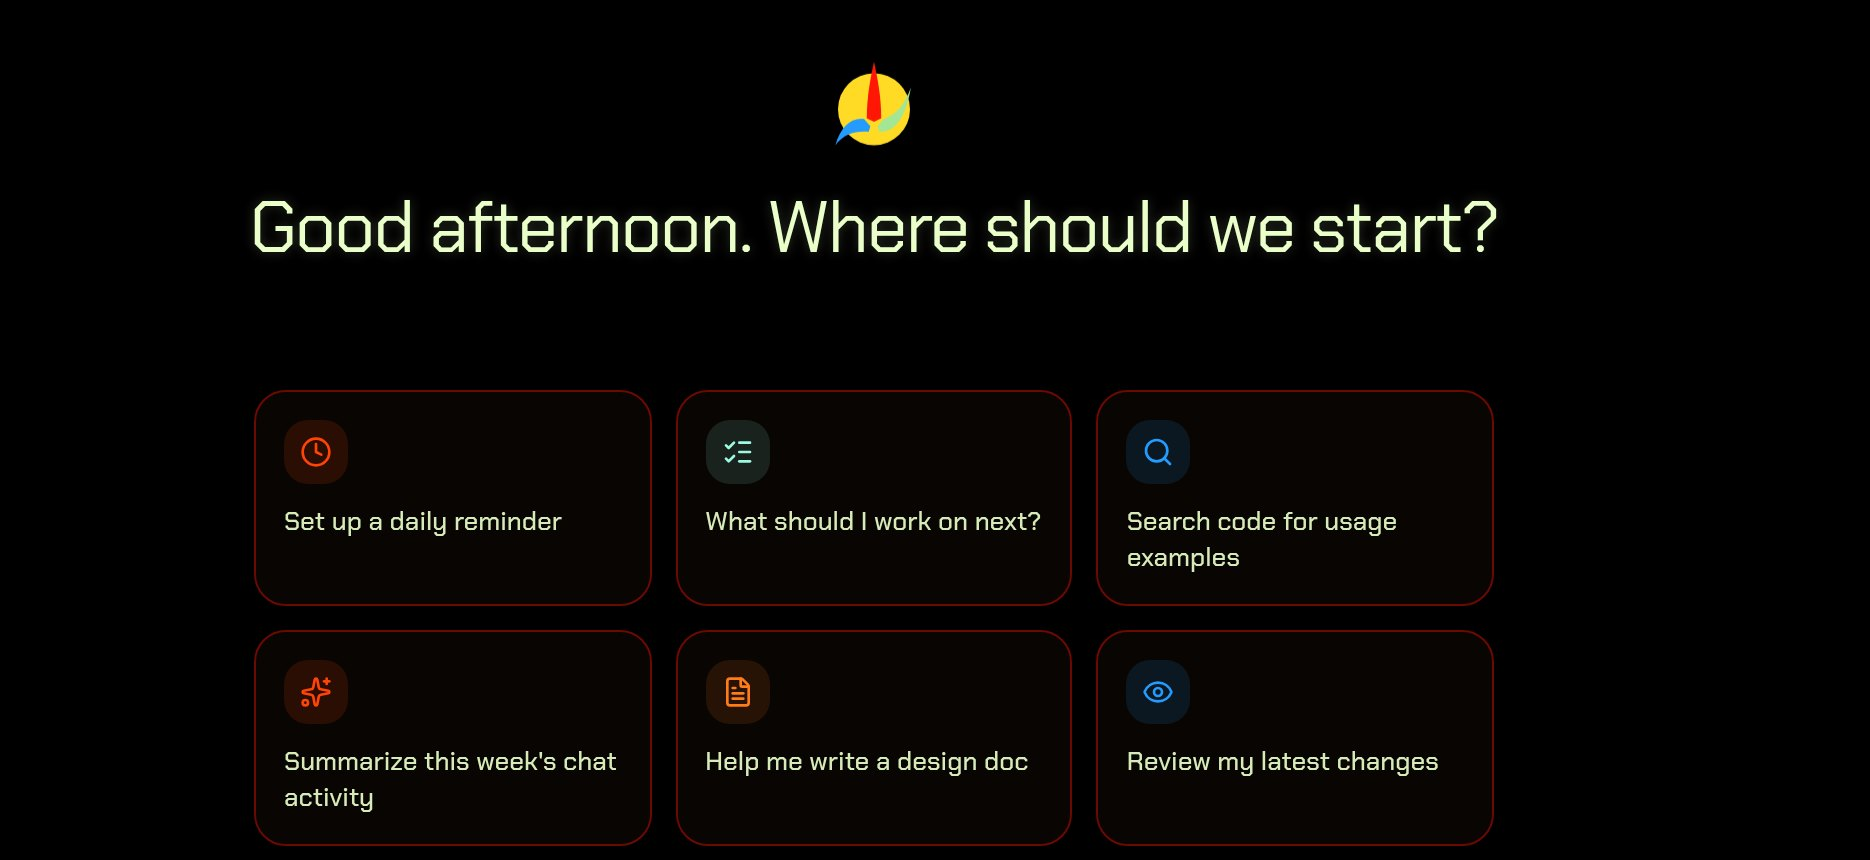
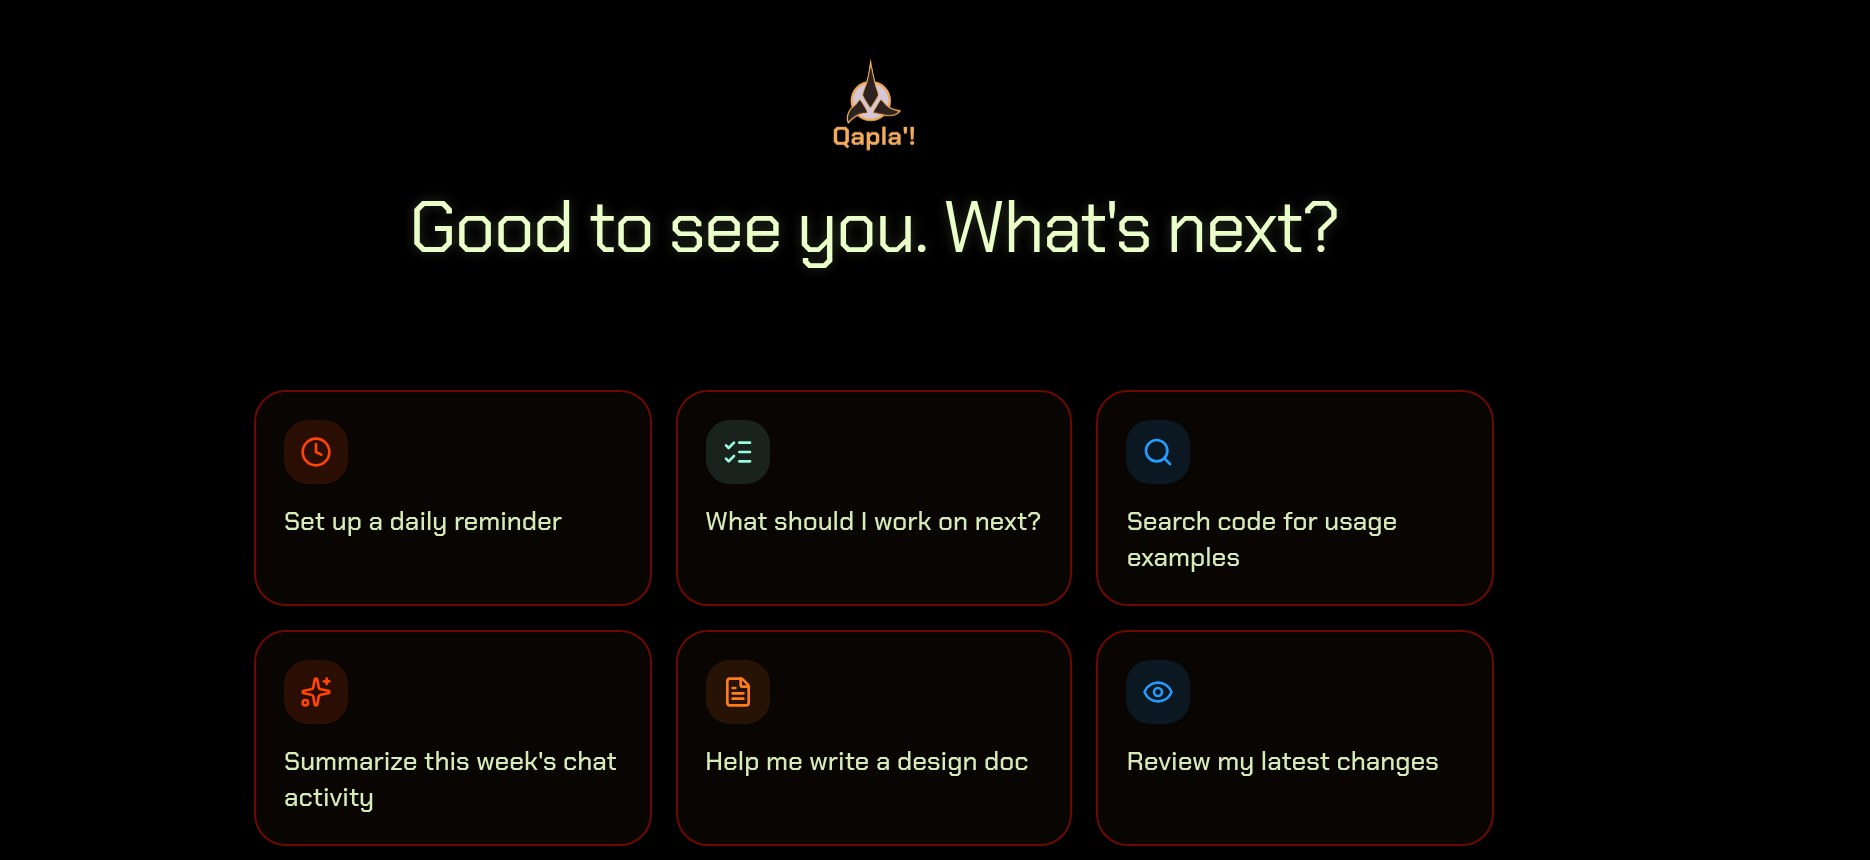
Trace the Klingon emblem from the film; add Qapla'!
Exported from the source repo at 473d2a7; synthesized sounds only (audio
check passed).

Changed region(s): [[0.1241, 0.2116, 0.8064, 0.3023], [0.4342, 0.0605, 0.4963, 0.1814]]

diff --git a/overlays/standby.html b/overlays/standby.html
@@ -34,8 +34,8 @@
  */
 (() => {
   'use strict'
[1 lines of base64/hex data omitted]
-  const C = {"housing":"#331905","rim":"#5c2c08","lattice":"#ff1605","lattice_line":"#9e0d03","ship":"#ff4405","glyph":"#d7ebb9","contact":"#9bfae2","torpedo":"#ff3526","script":"#ff6830","bridge":"#249cff","lamp":"#ff5429","disc":"#ffdb26","armgreen":"#a3e695","dim":"#520702","muted":"#a4b28d","glyphs":[[[[0.198,0.009],[0.399,1.0],[0.465,-0.009]],[[0.005,0.18],[0.72,0.043],[-0.005,-0.02]],[[0.36,0.716],[0.76,0.675],[0.387,0.526]],[[0.349,0.823],[0.76,0.818],[0.41,0.601]]],[[[0.221,0.062],[0.035,0.984],[0.211,0.938],[0.397,0.016]],[[0.72,-0.005],[0.0,0.082],[0.72,0.165]],[[0.117,0.555],[-0.04,0.935],[0.271,0.665]]],[[[0.414,0.05],[0.123,0.973],[0.315,0.95],[0.607,0.027]],[[0.711,0.818],[0.0,0.984],[0.729,1.022]],[[0.233,0.841],[0.76,1.0],[0.345,0.638]]],[[[0.267,0.075],[0.223,0.995],[0.42,0.925],[0.464,0.005]],[[0.297,0.401],[0.76,0.634],[0.406,0.256]],[[0.291,0.323],[-0.04,0.636],[0.403,0.53]]],[[[0.196,-0.002],[0.313,1.0],[0.458,0.002]],[[0.385,0.66],[0.76,0.188],[0.253,0.514]]],[[[0.282,0.049],[0.011,0.973],[0.221,0.951],[0.491,0.027]],[[0.284,0.712],[0.719,0.243],[0.148,0.529]]],[[[0.381,-0.048],[0.232,1.0],[0.696,0.048]],[[0.44,0.588],[0.76,0.171],[0.317,0.455]]],[[[0.406,-0.058],[0.174,1.0],[0.71,0.058]],[[0.705,-0.01],[0.0,0.2],[0.735,0.17]],[[0.482,0.265],[-0.04,0.01],[0.372,0.419]]],[[[0.351,0.069],[0.255,0.99],[0.457,0.931],[0.553,0.01]],[[0.722,0.837],[0.0,0.902],[0.718,1.003]],[[0.469,0.54],[0.76,0.191],[0.347,0.382]]],[[[0.182,0.005],[0.35,1.0],[0.445,-0.005]],[[0.406,0.602],[-0.04,0.415],[0.271,0.786]]],[[[0.246,0.063],[0.092,0.984],[0.298,0.937],[0.451,0.016]],[[-0.017,0.184],[0.72,0.195],[0.017,-0.024]],[[0.3,0.414],[-0.04,0.43],[0.236,0.63]],[[0.22,0.402],[-0.04,0.657],[0.321,0.61]]],[[[0.241,-0.03],[0.184,1.0],[0.533,0.03]],[[0.288,0.637],[-0.04,0.58],[0.191,0.819]],[[0.23,0.361],[-0.04,0.743],[0.367,0.513]]],[[[0.43,0.062],[0.273,0.983],[0.48,0.938],[0.637,0.017]],[[-0.004,1.007],[0.72,0.952],[0.004,0.833]],[[0.445,0.544],[-0.04,0.573],[0.416,0.739]]],[[[0.519,-0.052],[0.248,1.0],[0.778,0.052]],[[0.382,0.79],[0.76,0.658],[0.368,0.578]],[[0.331,0.688],[0.76,0.904],[0.487,0.509]]],[[[0.508,-0.06],[0.115,1.0],[0.743,0.06]],[[0.243,0.634],[-0.04,0.754],[0.255,0.842]]],[[[0.389,0.047],[0.08,0.971],[0.281,0.953],[0.59,0.029]],[[0.473,0.381],[0.76,0.0],[0.333,0.213]],[[0.286,0.736],[0.76,0.651],[0.291,0.543]]],[[[0.332,0.074],[0.265,0.994],[0.442,0.926],[0.509,0.006]],[[0.377,0.339],[-0.04,0.5],[0.405,0.541]],[[0.402,0.252],[-0.04,0.344],[0.391,0.479]]],[[[0.393,-0.037],[0.23,1.0],[0.646,0.037]],[[-0.003,0.178],[0.72,0.103],[0.003,-0.018]],[[0.247,0.628],[-0.04,0.945],[0.37,0.825]]],[[[0.259,0.054],[0.028,0.976],[0.238,0.946],[0.469,0.024]],[[0.266,0.578],[-0.04,0.504],[0.148,0.756]]],[[[0.218,0.007],[0.415,1.0],[0.517,-0.007]],[[0.704,0.816],[0.0,1.033],[0.736,1.024]],[[0.473,0.713],[0.76,0.32],[0.321,0.529]]],[[[0.403,-0.027],[0.362,1.0],[0.694,0.027]],[[-0.012,0.175],[0.72,0.168],[0.012,-0.015]],[[0.533,0.423],[0.76,0.209],[0.447,0.204]],[[0.467,0.566],[-0.04,0.476],[0.38,0.773]]],[[[0.494,-0.045],[0.375,1.0],[0.816,0.045]],[[0.715,-0.023],[0.0,0.114],[0.725,0.183]],[[0.533,0.462],[0.026,0.382],[0.467,0.645]]],[[[0.222,0.004],[0.395,1.0],[0.516,-0.004]],[[0.314,0.337],[-0.04,0.76],[0.446,0.499]]],[[[0.506,0.04],[0.111,0.966],[0.301,0.96],[0.696,0.034]],[[0.431,0.563],[0.76,0.428],[0.413,0.352]]],[[[0.209,-0.014],[0.24,1.0],[0.479,0.014]],[[0.311,0.276],[-0.04,0.359],[0.298,0.484]]],[[[0.451,-0.04],[0.263,1.0],[0.707,0.04]],[[0.721,-0.009],[0.0,0.071],[0.719,0.169]],[[0.411,0.599],[-0.04,0.477],[0.308,0.79]]],[[[0.471,0.054],[0.229,0.977],[0.428,0.946],[0.67,0.023]],[[0.725,0.82],[0.0,0.881],[0.715,1.02]],[[0.432,0.331],[-0.006,0.58],[0.497,0.552]]],[[[0.218,0.088],[0.292,1.008],[0.478,0.912],[0.404,-0.008]],[[0.295,0.806],[0.76,1.0],[0.435,0.616]]]],"symbol":[[-0.294,-0.33],[-0.211,-0.268],[-0.211,-0.196],[-0.17,-0.082],[-0.211,-0.052],[-0.253,0.103],[-0.397,0.227],[-0.479,0.206],[-0.5,0.258],[-0.459,0.258],[-0.397,0.299],[-0.314,0.32],[-0.284,0.351],[-0.211,0.34],[-0.201,0.299],[-0.17,0.278],[-0.015,0.268],[0.005,0.165],[0.088,0.155],[0.314,0.237],[0.387,0.34],[0.448,0.34],[0.5,0.227],[0.5,0.186],[0.479,0.165],[0.325,0.186],[0.191,0.113],[0.129,0.103],[0.067,0.052],[0.098,-0.062],[-0.015,-0.175],[0.005,-0.258],[-0.088,-0.289],[-0.149,-0.351],[-0.18,-0.33],[-0.273,-0.351]],"name":"KIRO CREW"}
[1 lines of base64/hex data omitted]
+  const C = {"housing":"#331905","rim":"#5c2c08","lattice":"#ff1605","lattice_line":"#9e0d03","ship":"#ff4405","glyph":"#d7ebb9","contact":"#9bfae2","torpedo":"#ff3526","script":"#ff6830","bridge":"#249cff","lamp":"#ff5429","emblem_prong":"#2e2221","emblem_gold":"#f2aa5c","emblem_disc":"#d4c7d9","dim":"#520702","muted":"#a4b28d","glyphs":[[[[0.198,0.009],[0.399,1.0],[0.465,-0.009]],[[0.005,0.18],[0.72,0.043],[-0.005,-0.02]],[[0.36,0.716],[0.76,0.675],[0.387,0.526]],[[0.349,0.823],[0.76,0.818],[0.41,0.601]]],[[[0.221,0.062],[0.035,0.984],[0.211,0.938],[0.397,0.016]],[[0.72,-0.005],[0.0,0.082],[0.72,0.165]],[[0.117,0.555],[-0.04,0.935],[0.271,0.665]]],[[[0.414,0.05],[0.123,0.973],[0.315,0.95],[0.607,0.027]],[[0.711,0.818],[0.0,0.984],[0.729,1.022]],[[0.233,0.841],[0.76,1.0],[0.345,0.638]]],[[[0.267,0.075],[0.223,0.995],[0.42,0.925],[0.464,0.005]],[[0.297,0.401],[0.76,0.634],[0.406,0.256]],[[0.291,0.323],[-0.04,0.636],[0.403,0.53]]],[[[0.196,-0.002],[0.313,1.0],[0.458,0.002]],[[0.385,0.66],[0.76,0.188],[0.253,0.514]]],[[[0.282,0.049],[0.011,0.973],[0.221,0.951],[0.491,0.027]],[[0.284,0.712],[0.719,0.243],[0.148,0.529]]],[[[0.381,-0.048],[0.232,1.0],[0.696,0.048]],[[0.44,0.588],[0.76,0.171],[0.317,0.455]]],[[[0.406,-0.058],[0.174,1.0],[0.71,0.058]],[[0.705,-0.01],[0.0,0.2],[0.735,0.17]],[[0.482,0.265],[-0.04,0.01],[0.372,0.419]]],[[[0.351,0.069],[0.255,0.99],[0.457,0.931],[0.553,0.01]],[[0.722,0.837],[0.0,0.902],[0.718,1.003]],[[0.469,0.54],[0.76,0.191],[0.347,0.382]]],[[[0.182,0.005],[0.35,1.0],[0.445,-0.005]],[[0.406,0.602],[-0.04,0.415],[0.271,0.786]]],[[[0.246,0.063],[0.092,0.984],[0.298,0.937],[0.451,0.016]],[[-0.017,0.184],[0.72,0.195],[0.017,-0.024]],[[0.3,0.414],[-0.04,0.43],[0.236,0.63]],[[0.22,0.402],[-0.04,0.657],[0.321,0.61]]],[[[0.241,-0.03],[0.184,1.0],[0.533,0.03]],[[0.288,0.637],[-0.04,0.58],[0.191,0.819]],[[0.23,0.361],[-0.04,0.743],[0.367,0.513]]],[[[0.43,0.062],[0.273,0.983],[0.48,0.938],[0.637,0.017]],[[-0.004,1.007],[0.72,0.952],[0.004,0.833]],[[0.445,0.544],[-0.04,0.573],[0.416,0.739]]],[[[0.519,-0.052],[0.248,1.0],[0.778,0.052]],[[0.382,0.79],[0.76,0.658],[0.368,0.578]],[[0.331,0.688],[0.76,0.904],[0.487,0.509]]],[[[0.508,-0.06],[0.115,1.0],[0.743,0.06]],[[0.243,0.634],[-0.04,0.754],[0.255,0.842]]],[[[0.389,0.047],[0.08,0.971],[0.281,0.953],[0.59,0.029]],[[0.473,0.381],[0.76,0.0],[0.333,0.213]],[[0.286,0.736],[0.76,0.651],[0.291,0.543]]],[[[0.332,0.074],[0.265,0.994],[0.442,0.926],[0.509,0.006]],[[0.377,0.339],[-0.04,0.5],[0.405,0.541]],[[0.402,0.252],[-0.04,0.344],[0.391,0.479]]],[[[0.393,-0.037],[0.23,1.0],[0.646,0.037]],[[-0.003,0.178],[0.72,0.103],[0.003,-0.018]],[[0.247,0.628],[-0.04,0.945],[0.37,0.825]]],[[[0.259,0.054],[0.028,0.976],[0.238,0.946],[0.469,0.024]],[[0.266,0.578],[-0.04,0.504],[0.148,0.756]]],[[[0.218,0.007],[0.415,1.0],[0.517,-0.007]],[[0.704,0.816],[0.0,1.033],[0.736,1.024]],[[0.473,0.713],[0.76,0.32],[0.321,0.529]]],[[[0.403,-0.027],[0.362,1.0],[0.694,0.027]],[[-0.012,0.175],[0.72,0.168],[0.012,-0.015]],[[0.533,0.423],[0.76,0.209],[0.447,0.204]],[[0.467,0.566],[-0.04,0.476],[0.38,0.773]]],[[[0.494,-0.045],[0.375,1.0],[0.816,0.045]],[[0.715,-0.023],[0.0,0.114],[0.725,0.183]],[[0.533,0.462],[0.026,0.382],[0.467,0.645]]],[[[0.222,0.004],[0.395,1.0],[0.516,-0.004]],[[0.314,0.337],[-0.04,0.76],[0.446,0.499]]],[[[0.506,0.04],[0.111,0.966],[0.301,0.96],[0.696,0.034]],[[0.431,0.563],[0.76,0.428],[0.413,0.352]]],[[[0.209,-0.014],[0.24,1.0],[0.479,0.014]],[[0.311,0.276],[-0.04,0.359],[0.298,0.484]]],[[[0.451,-0.04],[0.263,1.0],[0.707,0.04]],[[0.721,-0.009],[0.0,0.071],[0.719,0.169]],[[0.411,0.599],[-0.04,0.477],[0.308,0.79]]],[[[0.471,0.054],[0.229,0.977],[0.428,0.946],[0.67,0.023]],[[0.725,0.82],[0.0,0.881],[0.715,1.02]],[[0.432,0.331],[-0.006,0.58],[0.497,0.552]]],[[[0.218,0.088],[0.292,1.008],[0.478,0.912],[0.404,-0.008]],[[0.295,0.806],[0.76,1.0],[0.435,0.616]]]],"symbol":[[-0.294,-0.33],[-0.211,-0.268],[-0.211,-0.196],[-0.17,-0.082],[-0.211,-0.052],[-0.253,0.103],[-0.397,0.227],[-0.479,0.206],[-0.5,0.258],[-0.459,0.258],[-0.397,0.299],[-0.314,0.32],[-0.284,0.351],[-0.211,0.34],[-0.201,0.299],[-0.17,0.278],[-0.015,0.268],[0.005,0.165],[0.088,0.155],[0.314,0.237],[0.387,0.34],[0.448,0.34],[0.5,0.227],[0.5,0.186],[0.479,0.165],[0.325,0.186],[0.191,0.113],[0.129,0.103],[0.067,0.052],[0.098,-0.062],[-0.015,-0.175],[0.005,-0.258],[-0.088,-0.289],[-0.149,-0.351],[-0.18,-0.33],[-0.273,-0.351]],"name":"KIRO CREW","phrase":"Qapla'!"}
 
   const canvas = document.getElementById('screen')
   let ctx = canvas.getContext('2d')
@@ -124,7 +124,8 @@
    * (traced from frame 92) in its blinking target box; a cyan-white contact
    * that closes in and resets; three torpedoes that light in turn on the line
    * to it; rows of Klingon-style glyphs (original, made in code) that
-   * change; the orange triangle marker. The app's name sits under the grid.
+   * change; the orange triangle marker. The app's name sits under the grid,
+   * the Klingon phrase Qapla'! ("Success!") above it.
    */
   const SEED = 1979
   const TAU = Math.PI * 2
@@ -244,9 +245,12 @@
     ctx.strokeStyle = C.lattice
     ctx.lineWidth = Math.max(1.5, 0.22 * u)
     hexPath(cx, cy, hw, hh, d); ctx.stroke()
-    // The app's name under the grid.
+    // The app's name under the grid, and Qapla'! ("Success!") in the band above it.
     glow(C.glyph, 0.4 * u)
     text(C.name, cx, scr.y + scr.h - 1.1 * u, L.capName, C.glyph, 'c', 0.12)
+    const band = cy - hh - scr.y
+    glow(C.ship, 0.4 * u)
+    text(C.phrase, cx, cy - hh - 0.3 * band, Math.min(1.3 * u, 0.5 * band), C.ship, 'c', 0.08)
     noGlow()
   }
 

diff --git a/README.md b/README.md
@@ -4,9 +4,9 @@ An unofficial Kiro Crew theme modeled on the bridge of the Klingon K't'inga-clas
 
 - **Look:** the bridge's tactical display. Black glass in a dim amber-brown housing with cut corners, a faint red triangle lattice behind the chat, pale glyph-coloured text, the orange of the ship symbol as the accent, the cyan-white of the contact for success, red for errors.
 - **Thinking indicator:** three red torpedoes lighting in turn inside the grid.
-- **Welcome mark:** the Klingon emblem as the K't'inga hulls carried it: a red long prong with blue and pale green arms on a yellow circle.
-- **Screensaver:** after 15 minutes with no key press, click, scroll or touch, the tactical display fills the screen: the red lattice inside its hexagon, the orange ship symbol in a blinking target box, a cyan-white contact closing in, torpedoes leaving the ship, and rows of glyphs that change. Press a key or click to dismiss it; the click does not reach the app. The dashboard's nav, session list and chat header stay on top, so the display fills the area to their right. It does not run when the OS is set to reduce motion, and it stops after 30 minutes.
-- **Desktop splash:** while the desktop app waits for its gateway, the same display in its housing, with the app's name under the grid. It holds still when the OS asks for reduced motion.
+- **Welcome mark:** the Klingon Empire emblem as the films show it, black prongs edged in gold on a pale disc ringed in gold, with the Klingon phrase *Qapla'!* ("Success!") under it. The emblem is traced from *Star Trek VI*; no frame of *The Motion Picture* shows it.
+- **Screensaver:** after 15 minutes with no key press, click, scroll or touch, the tactical display fills the screen: the red lattice inside its hexagon, the orange ship symbol in a blinking target box, a cyan-white contact closing in, torpedoes leaving the ship, rows of glyphs that change, and *Qapla'!* above the grid. Press a key or click to dismiss it; the click does not reach the app. The dashboard's nav, session list and chat header stay on top, so the display fills the area to their right. It does not run when the OS is set to reduce motion, and it stops after 30 minutes.
+- **Desktop splash:** while the desktop app waits for its gateway, the same display in its housing, with the app's name under the grid and *Qapla'!* above it. It holds still when the OS asks for reduced motion.
 - **Code:** code blocks, diffs and the file viewer use the `synthwave-84` scheme (red, cyan, pink and yellow) in both modes.
 - **Light mode:** the same as dark. The films have no light screens.
 - **Type:** Chakra Petch, a free sans whose letters have cut corners, like the screen housings. The Klingon screens carry no Latin type, only Klingon glyphs, so there is no film face to match.
@@ -22,7 +22,7 @@ Pick System under Settings → Display → Font Family to keep the OS font.
 
 | Chat | Screensaver | Desktop splash | Welcome mark | First pick |
 |---|---|---|---|---|
-| ![Pale text on black over a faint red triangle lattice, code blocks in red bevelled frames, the session list in a brown bevelled housing, an orange button](.github/screenshots/k-tinga-dark.png) | ![A bevelled brown housing round black glass: a red triangle lattice in a long hexagon, an orange ship symbol in a target box, a cyan contact, glyph rows, KIRO CREW below](.github/screenshots/k-tinga-screensaver.png) | ![Desktop splash: the K't'inga tactical display, a red lattice in a hexagon with the orange ship symbol and a cyan contact, KIRO CREW below](.github/screenshots/k-tinga-splash.jpg) | ![A new chat's welcome screen: the Klingon emblem in red, blue and green on a yellow disc above a pale greeting and six starter cards](.github/screenshots/k-tinga-welcome.jpg) | ![The dialog "Enable Klingon · K't'inga experience?" with Sounds and Overlays checked, and Keep colors only and Save buttons](.github/screenshots/k-tinga-first-pick.jpg) |
+| ![Pale text on black over a faint red triangle lattice, code blocks in red bevelled frames, the session list in a brown bevelled housing, an orange button](.github/screenshots/k-tinga-dark.png) | ![A bevelled brown housing round black glass: a red triangle lattice in a long hexagon, an orange ship symbol in a target box, a cyan contact, glyph rows, KIRO CREW below](.github/screenshots/k-tinga-screensaver.png) | ![Desktop splash: the K't'inga tactical display, a red lattice in a hexagon with the orange ship symbol and a cyan contact, KIRO CREW below](.github/screenshots/k-tinga-splash.jpg) | ![A new chat's welcome screen: the Klingon emblem, black prongs edged in gold on a pale disc, with Qapla'! under it, above a pale greeting and six starter cards](.github/screenshots/k-tinga-welcome.jpg) | ![The dialog "Enable Klingon · K't'inga experience?" with Sounds and Overlays checked, and Keep colors only and Save buttons](.github/screenshots/k-tinga-first-pick.jpg) |
 
 ## The two Klingon packs
 
@@ -70,7 +70,33 @@ Type: none. The screens carry only Klingon glyphs. The pack uses Chakra Petch, a
 
 Glyphs: the labels are rows of angular, blade-like symbols (50, 94). Memory Alpha says Michael Okuda has admitted that the Klingon screen graphics from *Star Trek IV* on are "randomly arranged symbols", based on the few writings in TOS and the first three films ([Memory Alpha, Klingonese](https://memory-alpha.fandom.com/wiki/Klingonese)). The pack's glyphs are original shapes in that spirit, made in code: two or three tapered wedges each, generated from a seed. None is traced from a frame, a font or pIqaD.
 
-Emblem: not visible on the K't'inga bridge in the frames checked. Memory Alpha ([Klingon emblem](https://memory-alpha.fandom.com/wiki/Klingon_emblem)) says the K't'inga hulls in this film carried the three-coloured variant: a red long prong, with the second prong blue and the third pale green, on a yellow circle. The pack's welcome mark and favicon draw that: red and blue are the measured `lattice` and `bridge` colours; the yellow disc and the green arm are not measured on a frame.
+Emblem: not visible in this film. None shows on the K't'inga hulls (frames 18 to 28, 33, 34, 46, 47, 52 to 55, brightened; the dark marks on the command pod in 46 are hull lettering) or on the bridge (42, 50, 58, 91, 92, 94). Memory Alpha ([Klingon emblem](https://memory-alpha.fandom.com/wiki/Klingon_emblem)) says the K't'inga cruisers here carried a three-coloured emblem; no frame confirms it, so the pack draws the emblem from *Star Trek VI* (see "The emblem" below).
+
+### The emblem
+
+Frame: *The Undiscovered Country*, Chapter 1, frame 140 (the same graphic in 139, 147 and 150): the Klingon Empire emblem on the *Excelsior*'s viewscreen as the Klingon transmission comes in after Praxis. Memory Alpha's file "Klingon emblem.jpg" is the same shot ("The emblem of the Klingon Empire displayed on the USS Excelsior viewscreen in 2293"). It is the clearest emblem in the five films: full frame, sharp edges, flat colour.
+
+What it shows: three separate black prongs, each with a gold edge, over a pale disc ringed in gold. The top prong is a long kite: a needle tip far above the disc, widest just below the ring, a point at the disc's centre. The lower left prong sweeps down and out to a hooked tip below the disc; the lower right prong sweeps out to the right, its tip a little above its base. The lower prongs' tips reach past the ring; their inner corners nearly meet under the top prong's point.
+
+| Colour | What it is | Film hue, sat, value |
+|---|---|---|
+| prong | the black inside each prong (a warm near-black) | 5°, 0.29, 0.18 |
+| gold | the prongs' edges and the ring | 31°, 0.62, 0.95 |
+| disc | the pale disc | 282°, 0.08, 0.85 |
+
+The emblem is a mark, not text, so it keeps the film's brightness as well. The build's frame check re-measures all three on the frame.
+
+Trace: the frame was upscaled 2x and sharpened; the black was taken at half intensity between the black (value 0.18) and the gold or pale round it, and also as the dip between the two gold edges where the top prong narrows to its tip; the gold beyond the ring is everything that is not the red screen; the disc and the ring are circles fitted to the pale disc's edge and the ring's outer edge (radius 112.0 and 126.4 px, centre 886.0, 474.1). Each outline was then refitted as smooth cubic Bézier curves within 1.2 px of the trace (the top prong's left gold edge is one curve, within 1.6 px), sharp only at its corners (the prong tips, the kite's side points and the inner notches): 29 curve segments in all, where the first traced polygons had 122 points and showed the trace's bumps. The drawn prongs cover the frame's black with an IoU of 0.90 (0.91 before smoothing), and 95% of the pixels round the emblem fall in the same class (prong, gold, disc or screen) in the frame and in the drawing. The outline is kept as vector data; the frame is not stored.
+
+Other appearances checked: *The Search for Spock*, Kruge's bridge (frames 104, 116, 117): a yellow triangular plaque on the wall with a red long prong, dark lower prongs and a green disc, as Memory Alpha describes the 2280s emblem; through the bridge haze it is too soft to trace or measure. *The Final Frontier*, frame 681: the panel above. *The Motion Picture*: none (see that section).
+
+Both packs draw the frame-140 emblem in the frame-140 colours: no film gives the K't'inga a different one that a frame confirms.
+
+### The phrase
+
+*Qapla'!* ("Success!"), in Marc Okrand's spelling from *The Klingon Dictionary* (p. 171): capital Q, lowercase l, a straight apostrophe, then the exclamation mark. It sits under the emblem on the welcome mark, on each splash and on each screensaver, set in the pack's font. It is the only Klingon phrase in the packs; the new-chat greeting stays English, because Kiro Crew 0.13 gives a pack no way to change it.
+
+Not used: the Enterprise wireframe on Kruge's monitor (III 775) is a Federation ship on a Klingon screen; the *Bounty*'s console inlays (IV 326, 331, 332) are Starfleet light-table graphics in the Klingon ship; Chang's console lamps (VI 1734, 1736, 1756) are physical buttons, not displays. The *Bounty*'s grey-brown viewport housing (IV 364, 401) matches the bronze measured in III and was not measured separately.
 
 ## Credits and licenses
 
